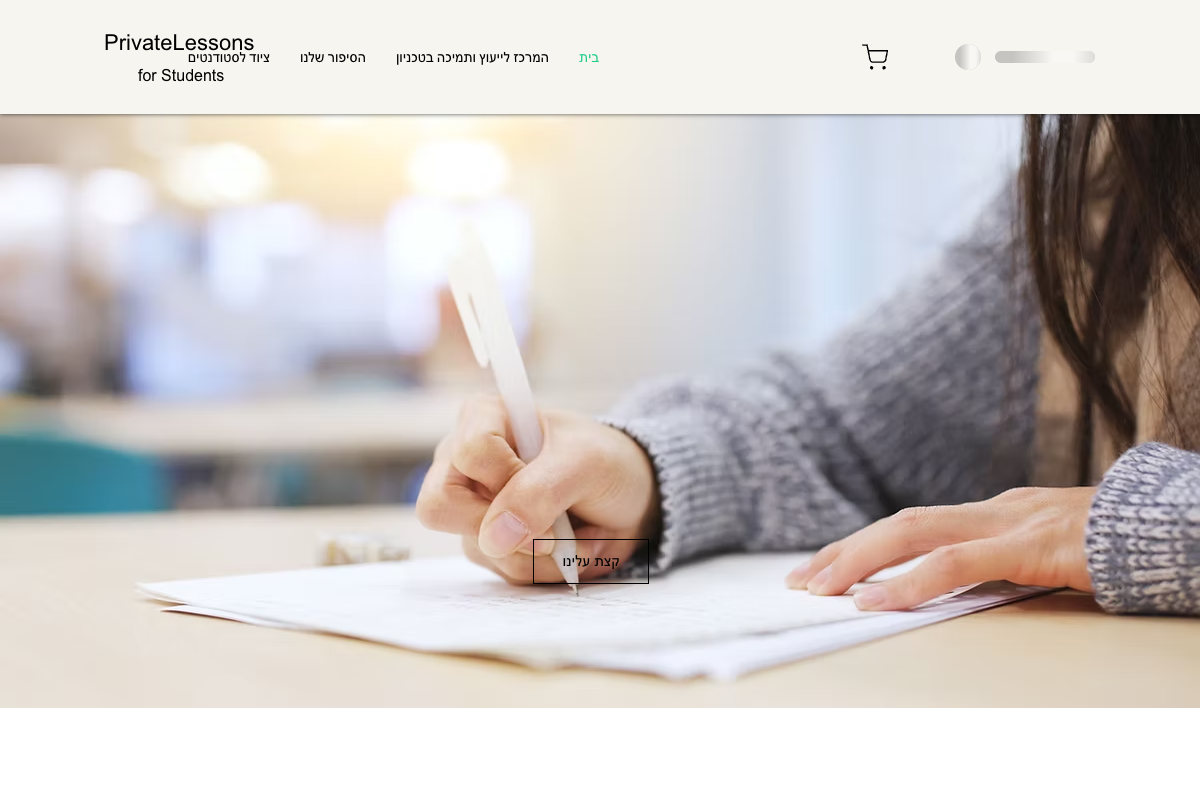
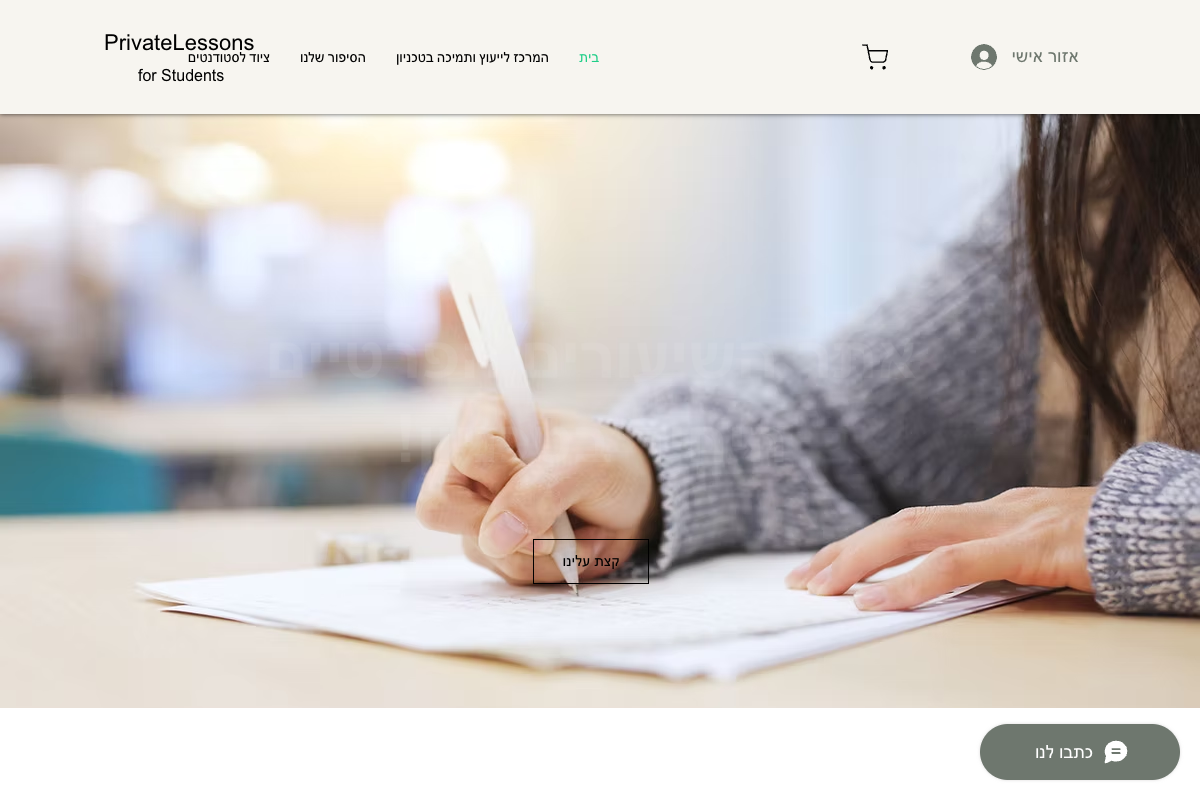
Update project screenshots and home intro

Changed region(s): [[0.8017, 0.9062, 0.9867, 1.0], [0.7708, 0.0312, 0.8942, 0.0938]]

diff --git a/index.html b/index.html
@@ -40,8 +40,10 @@
                         <h1>Software Engineering Student</h1>
 
                         <p>
-                            3rd year at the Technion, building products I'm proud of —
-                            where engineering meets design, and AI is always in the room.
+                            I'm a 3rd year Software Engineering student at the Technion,
+                            with a strong focus on design and user experience.
+                            I enjoy building products that are both technically solid and
+                            great to use.
                         </p>
                         <a href="#contact" class="home-button button rounded-corners-button">Get in touch</a>
                     </div>
